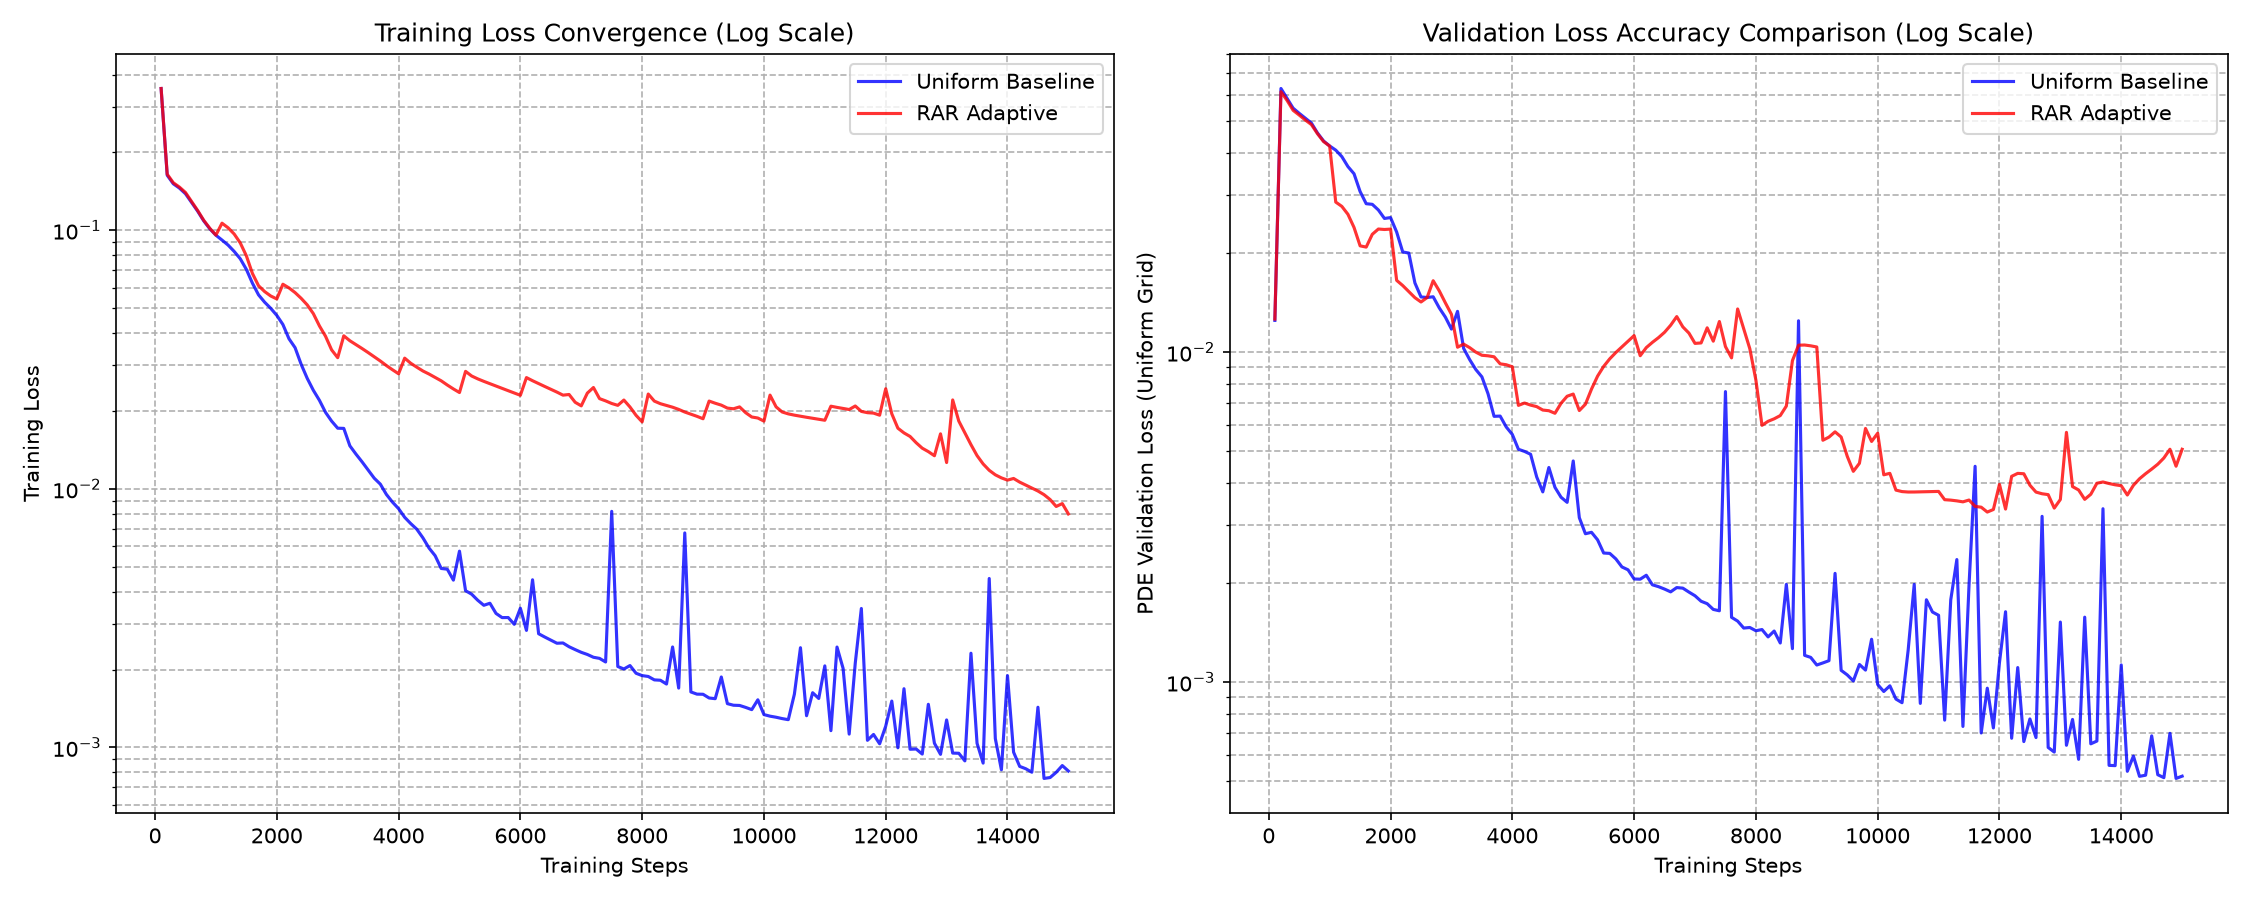
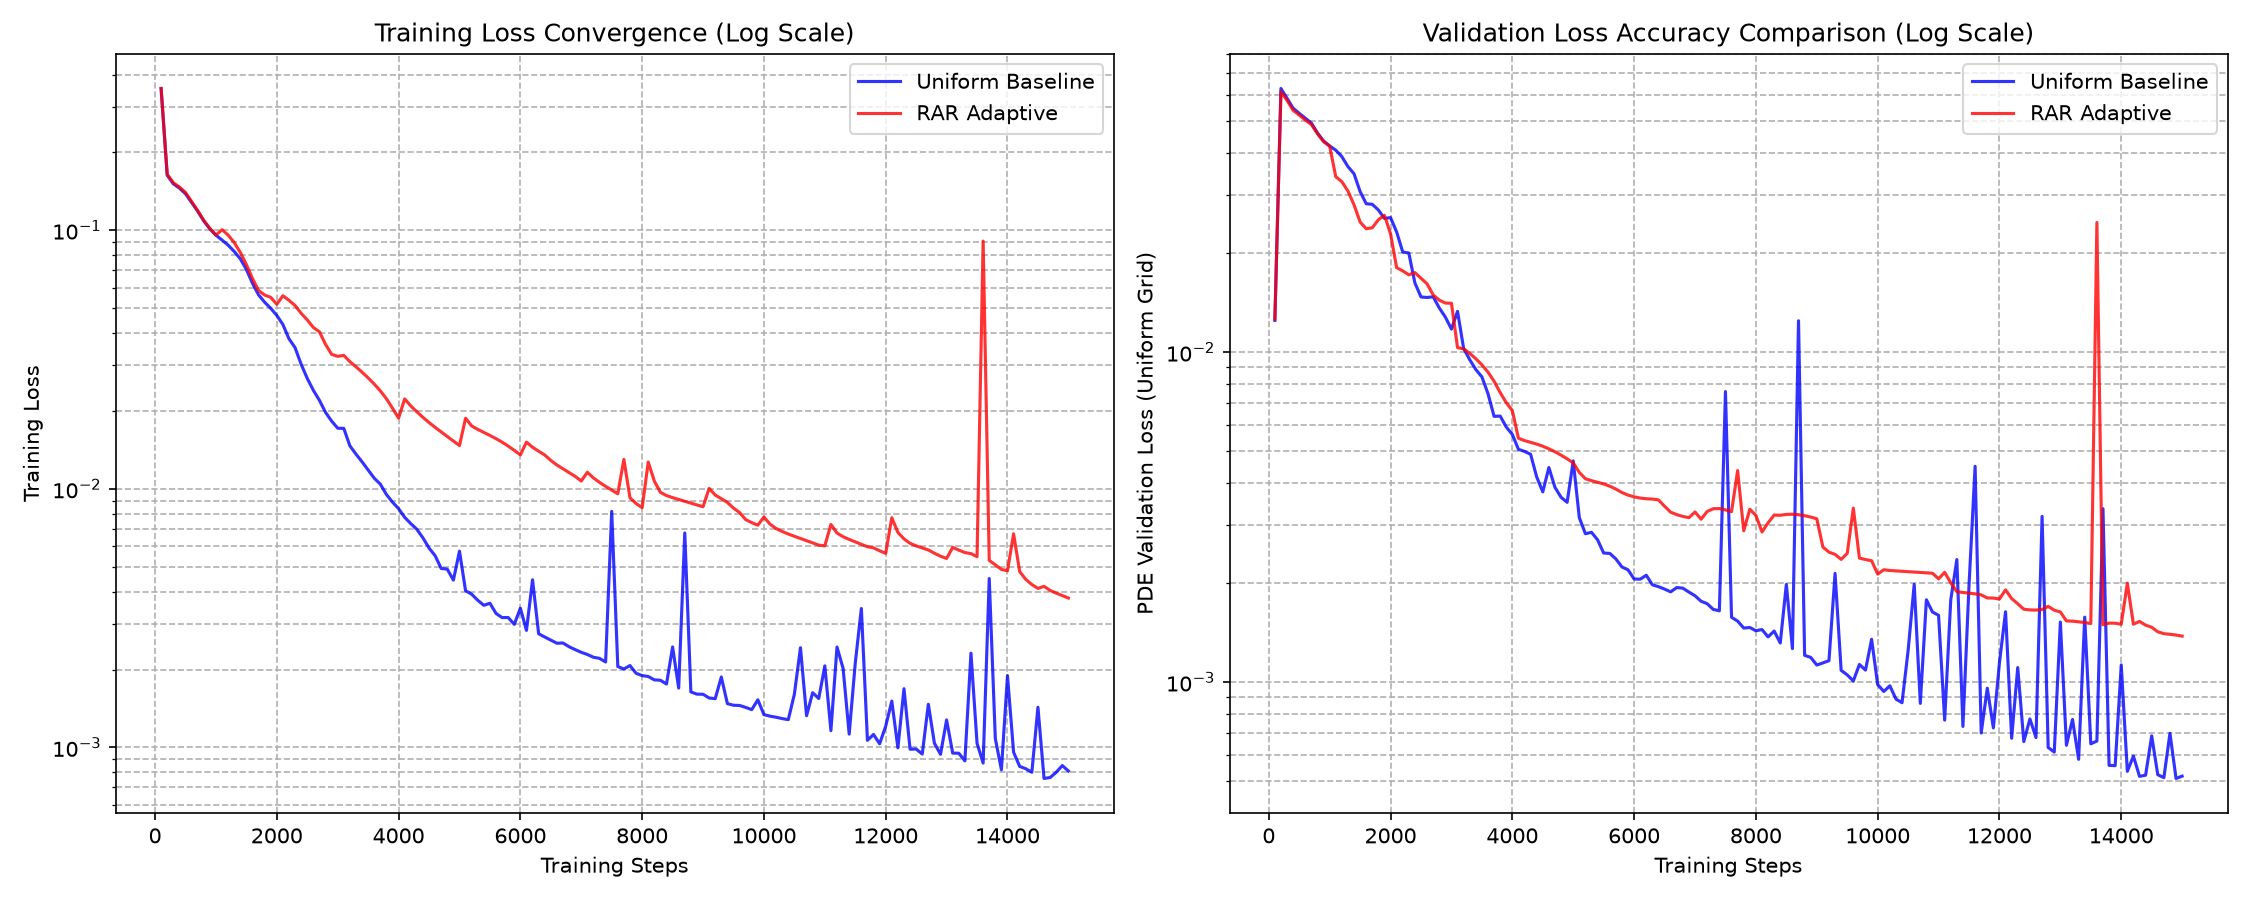
Optimize Hybrid RAR with top_k=500 for stable convergence and sharp shock resolution

diff --git a/verify_shock_resolution.py b/verify_shock_resolution.py
@@ -1,0 +1,86 @@
+import jax
+import jax.numpy as jnp
+import numpy as np
+import matplotlib.pyplot as plt
+
+# ----------------- 加载模型结构 -----------------
+def load_params(path):
+    data = jnp.load(path)
+    num_layers = len([k for k in data.keys() if k.startswith("W_")])
+    params = []
+    for idx in range(num_layers):
+        params.append({
+            'W': data[f"W_{idx}"],
+            'b': data[f"b_{idx}"]
+        })
+    return params
+
+def forward(params, t, x):
+    z = jnp.array([[t], [x]])
+    for layer in params[:-1]:
+        z = jnp.tanh(jnp.dot(layer['W'], z) + layer['b'])
+    out = jnp.dot(params[-1]['W'], z) + params[-1]['b']
+    return out[0, 0]
+
+forward_v = jax.vmap(forward, in_axes=(None, 0, 0))
+
+def residual(params, t, x, nu):
+    u = forward(params, t, x)
+    u_t = jax.grad(forward, argnums=1)(params, t, x)
+    u_x = jax.grad(forward, argnums=2)(params, t, x)
+    u_xx = jax.grad(jax.grad(forward, argnums=2), argnums=2)(params, t, x)
+    return u_t + u * u_x - nu * u_xx
+
+residual_v = jax.vmap(residual, in_axes=(None, 0, 0, None))
+
+def main():
+    # 1. 加载两个模型的权重
+    try:
+        params_uni = load_params("pinn_params_uniform.npz")
+        params_rar = load_params("pinn_params_rar.npz")
+    except FileNotFoundError as e:
+        print(f"Error: {e}. Please train both models first.")
+        return
+
+    nu = 0.01 / jnp.pi
+    
+    # 2. 构造一个在 t = 1.0 时非常密集的空间网格 x ∈ [-0.2, 0.2]（激波中心区域）
+    x_dense = np.linspace(-0.2, 0.2, 1000)
+    t_dense = np.ones_like(x_dense) * 1.0
+
+    # 3. 计算预测的速度值
+    u_uni = forward_v(params_uni, t_dense, x_dense)
+    u_rar = forward_v(params_rar, t_dense, x_dense)
+
+    # 4. 计算物理残差的绝对值
+    f_uni = np.abs(residual_v(params_uni, t_dense, x_dense, nu))
+    f_rar = np.abs(residual_v(params_rar, t_dense, x_dense, nu))
+
+    # 5. 开始画图
+    fig, (ax1, ax2) = plt.subplots(1, 2, figsize=(15, 6))
+
+    # 左图：速度剖面对比（看看谁的激波过渡更陡峭、更准确）
+    ax1.plot(x_dense, u_uni, 'b--', label='Uniform Baseline (Fixed)', alpha=0.8)
+    ax1.plot(x_dense, u_rar, 'r-', label='Hybrid RAR (Adaptive)', alpha=0.8)
+    ax1.set_xlabel('Space (x) near Shock')
+    ax1.set_ylabel('Velocity (u) at t = 1.0')
+    ax1.set_title('Velocity Profile Comparison at t = 1.0 (Zoomed)')
+    ax1.grid(True)
+    ax1.legend()
+
+    # 右图：物理残差绝对值分布（看看激波处的控制方程是否得到了完美满足）
+    ax2.plot(x_dense, f_uni, 'b--', label='Uniform Baseline (Fixed)', alpha=0.8)
+    ax2.plot(x_dense, f_rar, 'r-', label='Hybrid RAR (Adaptive)', alpha=0.8)
+    ax2.set_xlabel('Space (x) near Shock')
+    ax2.set_ylabel('Absolute PDE Residual |f(t,x)|')
+    ax2.set_yscale('log')
+    ax2.set_title('PDE Residual Profile at t = 1.0 (Log Scale)')
+    ax2.grid(True)
+    ax2.legend()
+
+    plt.tight_layout()
+    plt.savefig("shock_resolution_comparison.png", dpi=150)
+    print("Saved local comparison plot to shock_resolution_comparison.png")
+
+if __name__ == '__main__':
+    main()

diff --git a/train.py b/train.py
@@ -193,10 +193,9 @@ def main():
                 key, subkey = jax.random.split(key)
                 t_adapt, x_adapt = adaptive_resample(
                     params, t_adapt, x_adapt, nu, subkey,
-                    top_k=1500,  # 每次更新 5000 点中的 1500 点
+                    top_k=500,  # 每次更新 5000 点中的 500 点
                     noise_std=0.005
                 )
-                
                 # 每 3000 步记录合并后的完整坐标快照
                 if step % 3000 == 0:
                     points_history[f"t_step_{step}"] = jnp.concatenate([t_bg, t_adapt])